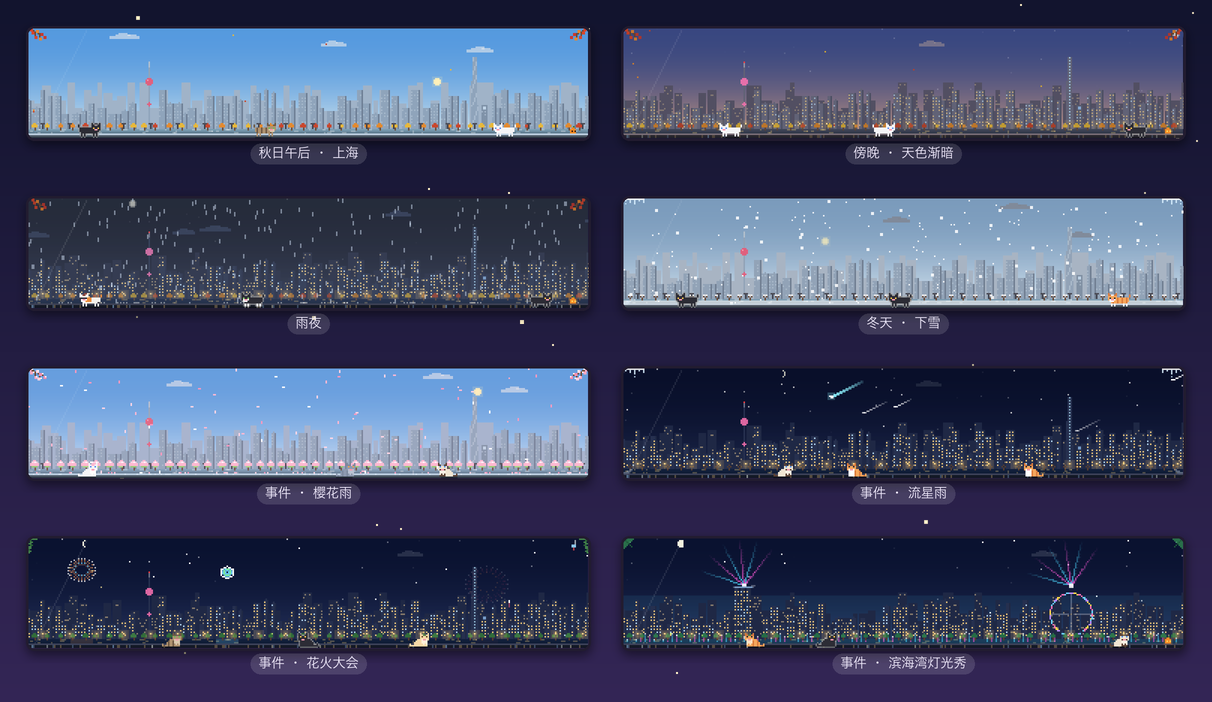
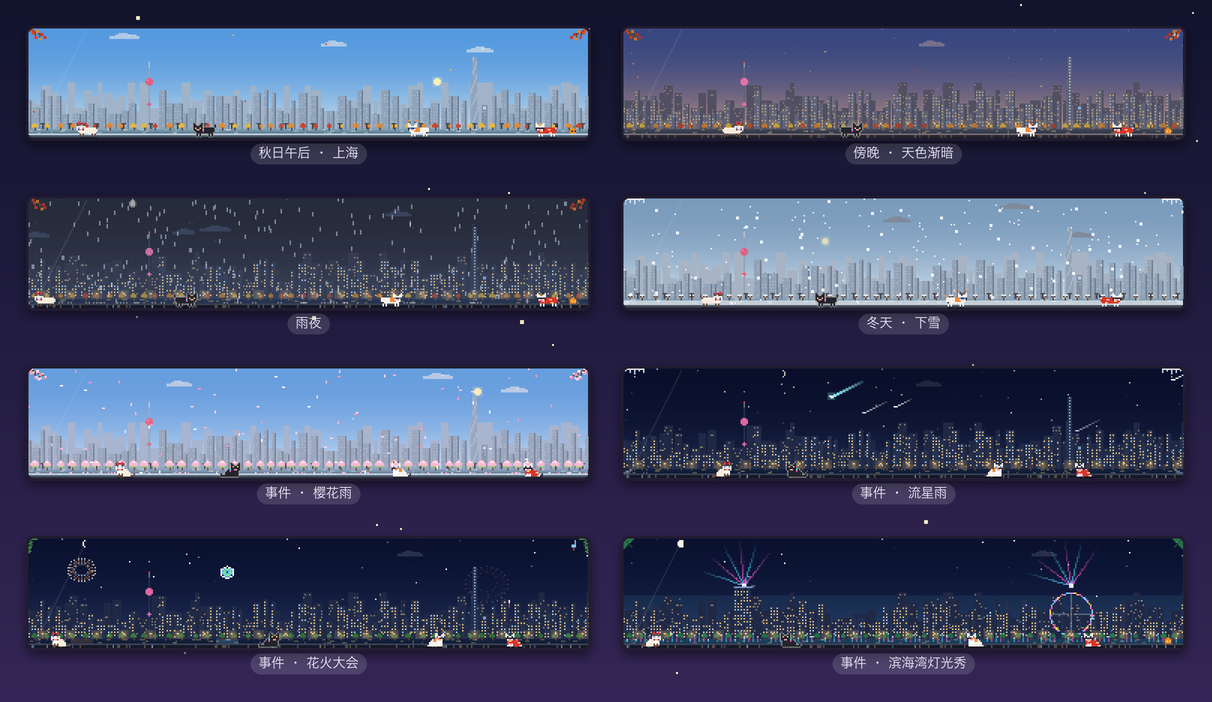
Prepare 0.2.0: README for the platform cats, refreshed art
- README introduces the platform cats (lineup image, names, statuses)
  and the newer feed interactions; banner and scene collage are
  re-rendered off-screen with the cats.
- The cardboard box is lower so 箱箱's face shows.
- Version 0.2.0 (build 4).

Generated with [Devin](https://devin.ai)

diff --git a/apps/macos/Catland/Cat/CatStage.swift b/apps/macos/Catland/Cat/CatStage.swift
@@ -105,7 +105,7 @@ struct CatStage: View {
 
     /// 箱箱的纸箱：画在小奶猫前面，挡住身体下半截，只露出脑袋和爪子扒着箱沿。
     private func drawBox(under s: CatDirector.Snapshot, in ctx: inout GraphicsContext, size: CGSize, px: CGFloat) {
-        let w = 13 * px, h = 6 * px
+        let w = 13 * px, h = 4 * px
         let x = ((s.x - w / 2) / px).rounded() * px, y = size.height - px - h
         let side = Color(red: 0.78, green: 0.58, blue: 0.36), top = Color(red: 0.88, green: 0.70, blue: 0.47)
         let edge = Color(red: 0.45, green: 0.31, blue: 0.18), tape = Color(red: 0.93, green: 0.82, blue: 0.62)
@@ -120,8 +120,8 @@ struct CatStage: View {
         ctx.fill(Path(CGRect(x: x, y: y, width: px, height: h)), with: .color(edge))
         ctx.fill(Path(CGRect(x: x + w - px, y: y, width: px, height: h)), with: .color(edge))
         // 贴在箱子上的猫爪纸条
-        ctx.fill(Path(CGRect(x: x + 2 * px, y: y + 2 * px, width: 3 * px, height: 2 * px)), with: .color(.white.opacity(0.92)))
-        ctx.fill(Path(CGRect(x: x + 3 * px, y: y + 3 * px, width: px, height: px)), with: .color(Color(red: 0.95, green: 0.45, blue: 0.55)))
+        ctx.fill(Path(CGRect(x: x + 2 * px, y: y + px, width: 3 * px, height: 2 * px)), with: .color(.white.opacity(0.92)))
+        ctx.fill(Path(CGRect(x: x + 3 * px, y: y + 2 * px, width: px, height: px)), with: .color(Color(red: 0.95, green: 0.45, blue: 0.55)))
     }
 
     /// 像素风对话气泡：白底、1 像素深色描边、方角，带一个指向猫头的小尾巴。

diff --git a/apps/macos/Catland/Presentation/SceneSnapshot.swift b/apps/macos/Catland/Presentation/SceneSnapshot.swift
@@ -18,7 +18,7 @@ enum SceneSnapshot {
     }
 
     static let presets: [Preset] = [
-        Preset(file: "hero", date: "2026-10-28 21:30", condition: "clear", bubble: "点我点我，一起摸鱼～", size: CGSize(width: 720, height: 150)),
+        Preset(file: "hero", date: "2026-10-28 21:30", condition: "clear", bubble: "点我，本小姐今天心情好", size: CGSize(width: 720, height: 150)),
         Preset(file: "autumn-afternoon", date: "2026-10-28 15:00", condition: "partly"),
         Preset(file: "dusk", date: "2026-10-28 17:12", condition: "clear"),
         Preset(file: "rain-night", date: "2026-10-28 21:00", condition: "rain", intensity: 0.85),

diff --git a/README.md b/README.md
@@ -32,13 +32,13 @@
 <td width="50%" valign="top">
 
 ### 🐾 刘海就是入口
-平时刘海里是一面像素风落地窗：窗外是你所在城市的天际线，小猫在窗台上散步、打盹、钻进刘海里的「猫洞」。鼠标移上去小猫会蹦一下跟你打招呼，**点一下就展开成刷刷面板**，再点外面就收起。老板来了？`⌥ Esc` 一键收起并暂停。
+平时刘海里是一面像素风落地窗：窗外是你所在城市的天际线，你接入的平台小猫在窗台上散步、打盹、钻进刘海里的「猫洞」。鼠标移上去小猫会蹦一下跟你打招呼，**点一下就展开成刷刷面板**，再点外面就收起。老板来了？`⌥ Esc` 一键收起并暂停。
 
 </td>
 <td width="50%" valign="top">
 
 ### 📱 多平台混排，手感对标短视频 App
-小红书、抖音、Bilibili……的推荐流混在一条流里，**各平台均匀轮换、看过的不再出现**。封面先行、前后条预加载，划到下一条几乎零等待；触控板一滑一页，横屏视频居中铺模糊底，图文左右翻页，评论抽屉一点就开。
+小红书、抖音、Bilibili、快手的推荐流混在一条流里，**各平台均匀轮换（同一平台最多连着 3 条）、看过的不再出现**。封面先行、前后条预加载，划到下一条几乎零等待；触控板一滑一页，进度条可以拖动跳转，图集左右翻页，评论抽屉一点就开。某个平台被限流了？它悄悄歇一会儿，你照常刷别的。
 
 </td>
 </tr>
@@ -58,6 +58,22 @@
 </tr>
 </table>
 
+## 🐱 每个平台一只猫
+
+<div align="center">
+<img src="assets/brand/cats.png" width="88%" alt="平台小猫：薯薯、抖抖、bibi、铁铁和纸箱里的箱箱">
+</div>
+
+接入哪个平台，它的猫就住进你的刘海；看一眼刘海，就知道哪些平台连着：
+
+- **薯薯**（小红书）：戴红蝴蝶结的布偶猫，精致又毒舌——「老板画的饼，本小姐不吃」
+- **抖抖**（抖音）：戴酷炫项圈的黑猫，潮酷上头——「家人们谁懂啊，又上头了」
+- **bibi**（Bilibili）：顶着小电视天线的三花猫，傲娇二次元——「才、才不是想让你点我」
+- **铁铁**（快手）：穿花棉袄的奶牛猫，豪爽东北大姐——「老板画饼？大姐给你烙个真的」
+- **箱箱**：还一个平台都没接时，纸箱里只有这只小奶猫，等你把大家领回家；接上第一个平台，她会开心地蹦一下
+
+平台被风控时，它的猫会趴下打盹冒 zzz（「我累了，休息一会儿再来」），恢复后自己醒来；登录失效或断开，它就不在刘海里了。
+
 ## 🌆 刘海里的小世界
 
 刘海不只是入口，也是一个会陪你上班的小世界。我们把天气、季节、节日、彩蛋、事件统称为**表现层**，全部手绘像素风：
@@ -71,7 +87,7 @@
 - **节日有仪式感**：春节挂红灯笼、中秋一整晚的金色满月、万圣节南瓜灯、圣诞彩灯。
 - **会发生大事件**：真实流星雨极大日的流星雨、夏夜花火大会、滨海湾灯光秀、樱花雨、热气球节……**小猫会提前 6 小时预告**，事件开始时大家一起坐下来看窗外。
 - **随机彩蛋**：雨天海湾里漂着纸船，工作日上午窗台上有杯冒热气的咖啡，偶尔……会有 UFO。
-- **一只懂你的猫**：悬停刘海，小猫会跟你聊两句——「今日搬砖进度 63%，快通关了」「老板画的饼，猫猫不吃」「距国庆还有 5 天，数着日子摸鱼」。
+- **懂你的猫**：悬停刘海，小猫们轮流用自己的口吻跟你聊两句——「铁铁：今天活儿干了 63%，麻溜的」「bibi：这么晚了，快睡啦笨蛋」「薯薯：还有 3 天发工资，忍住别剁手」。
 
 ## 📦 下载安装
 
